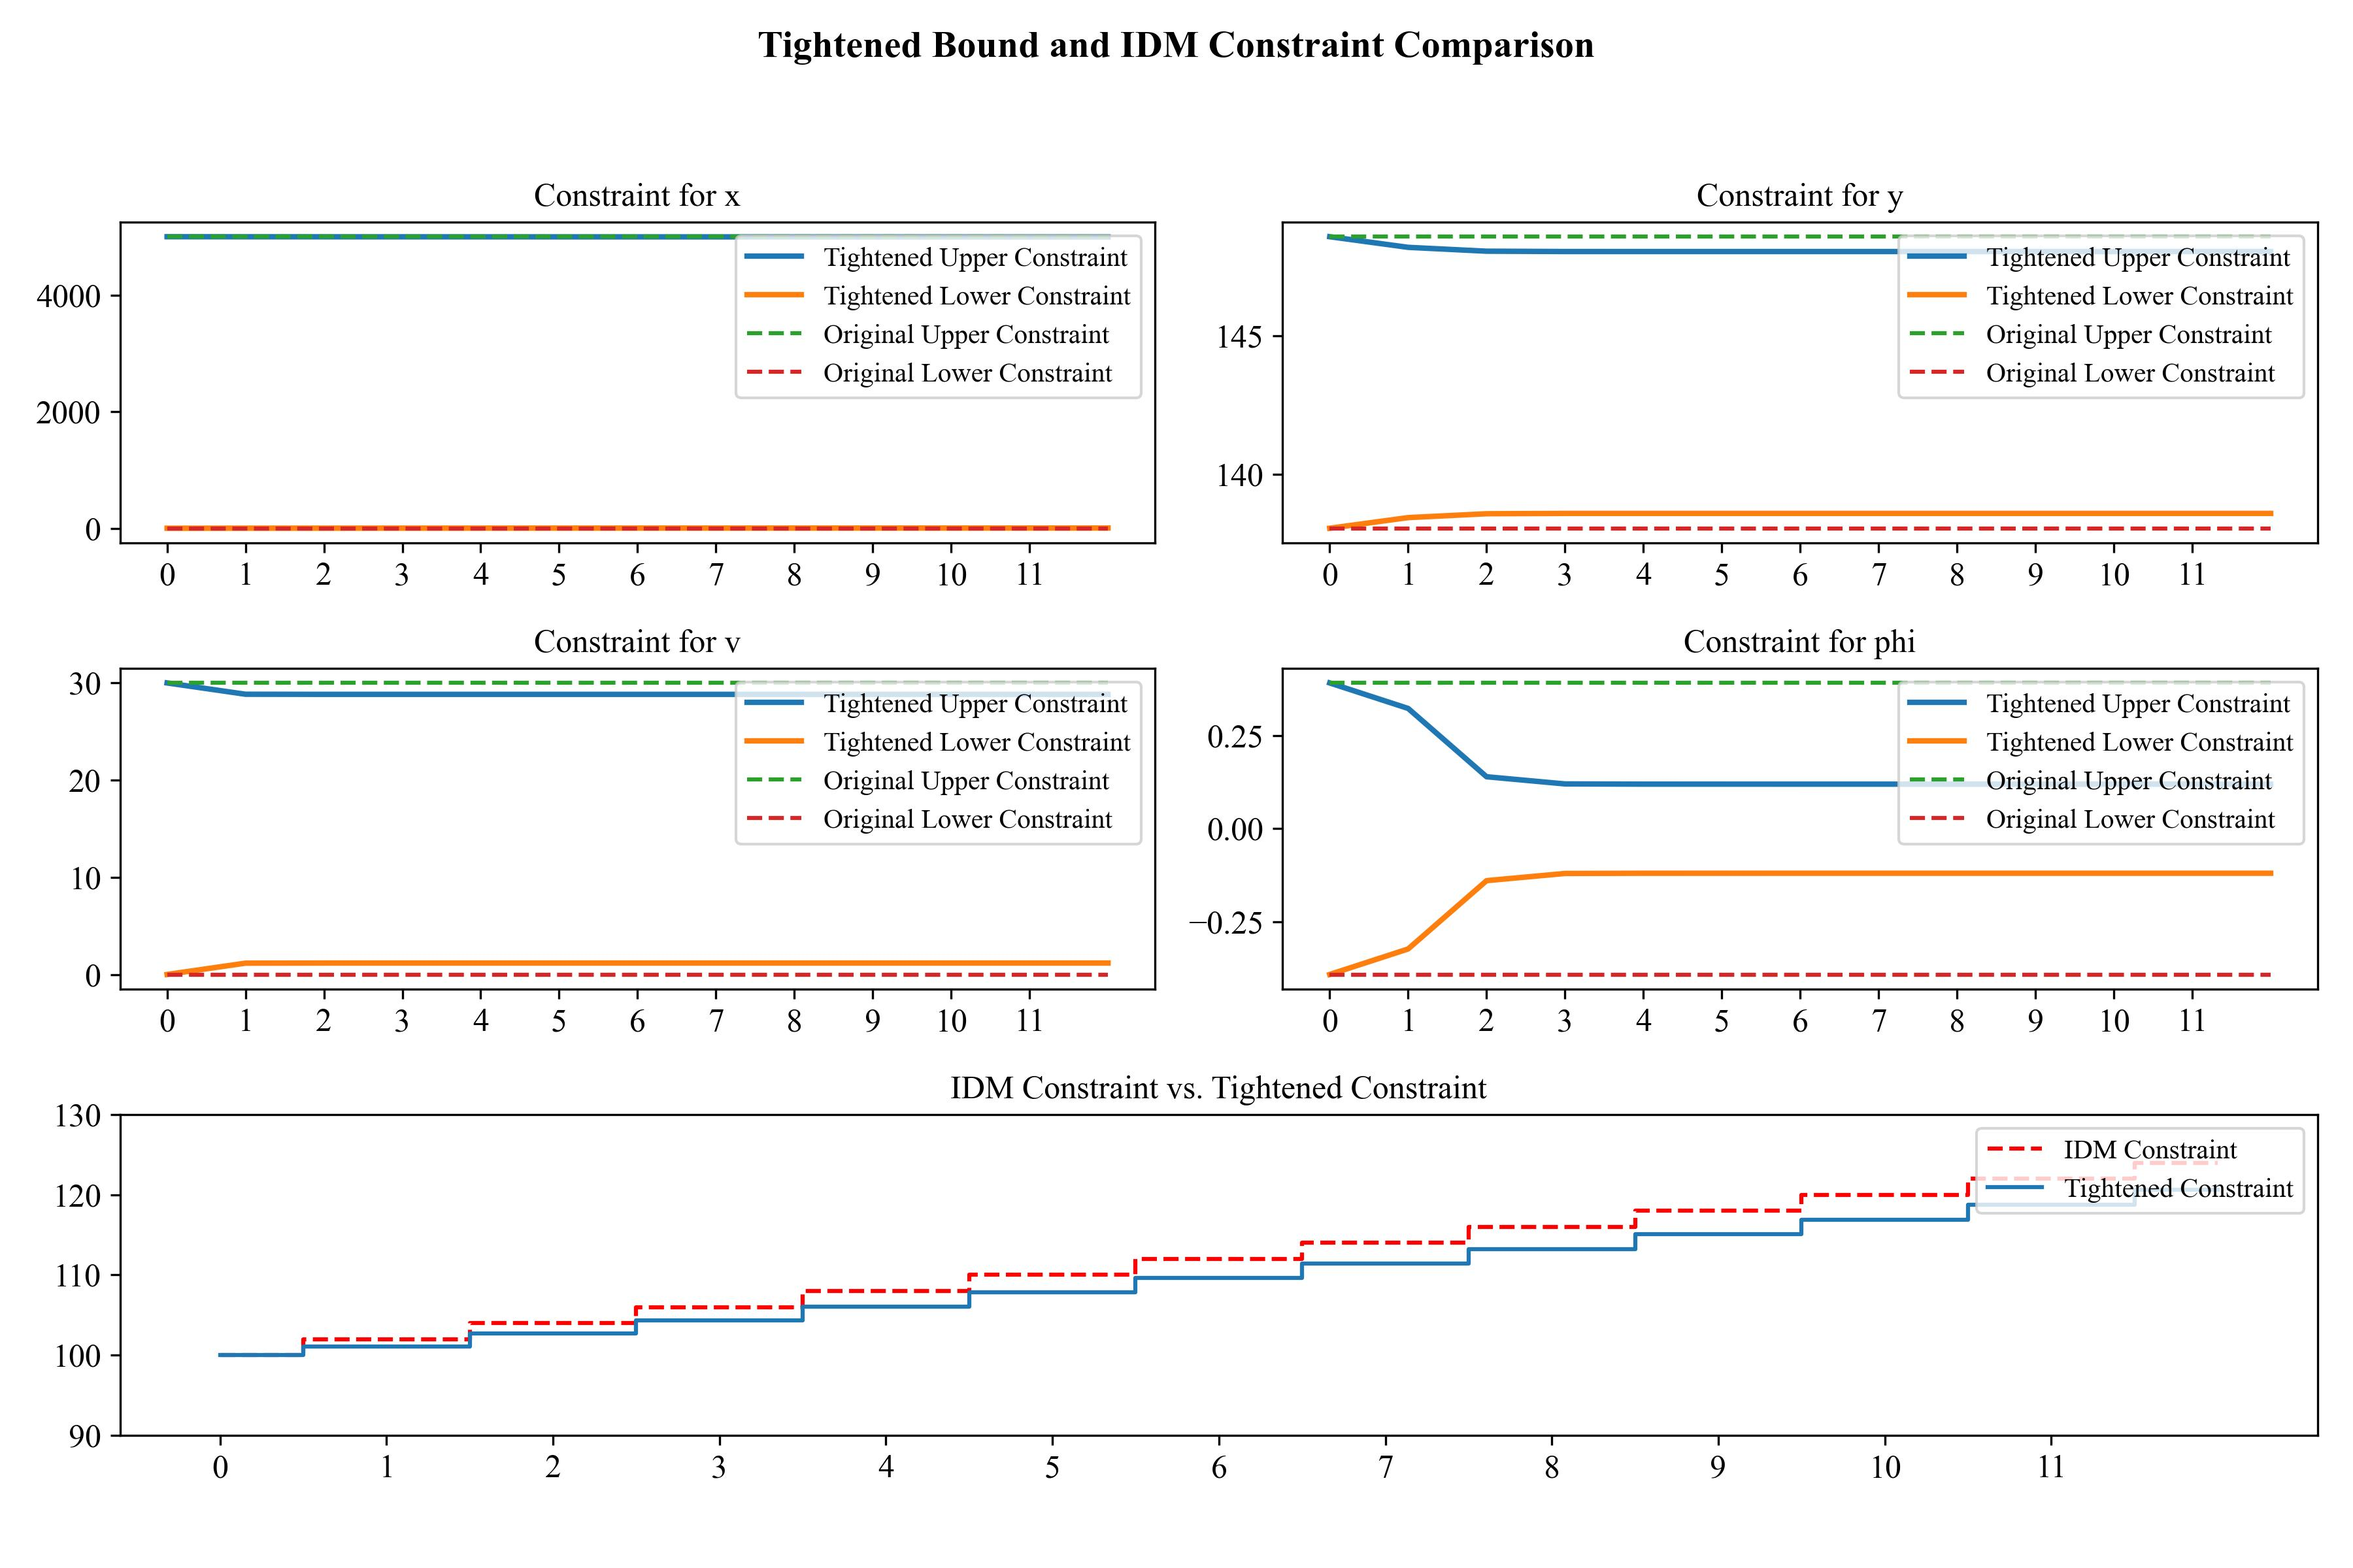
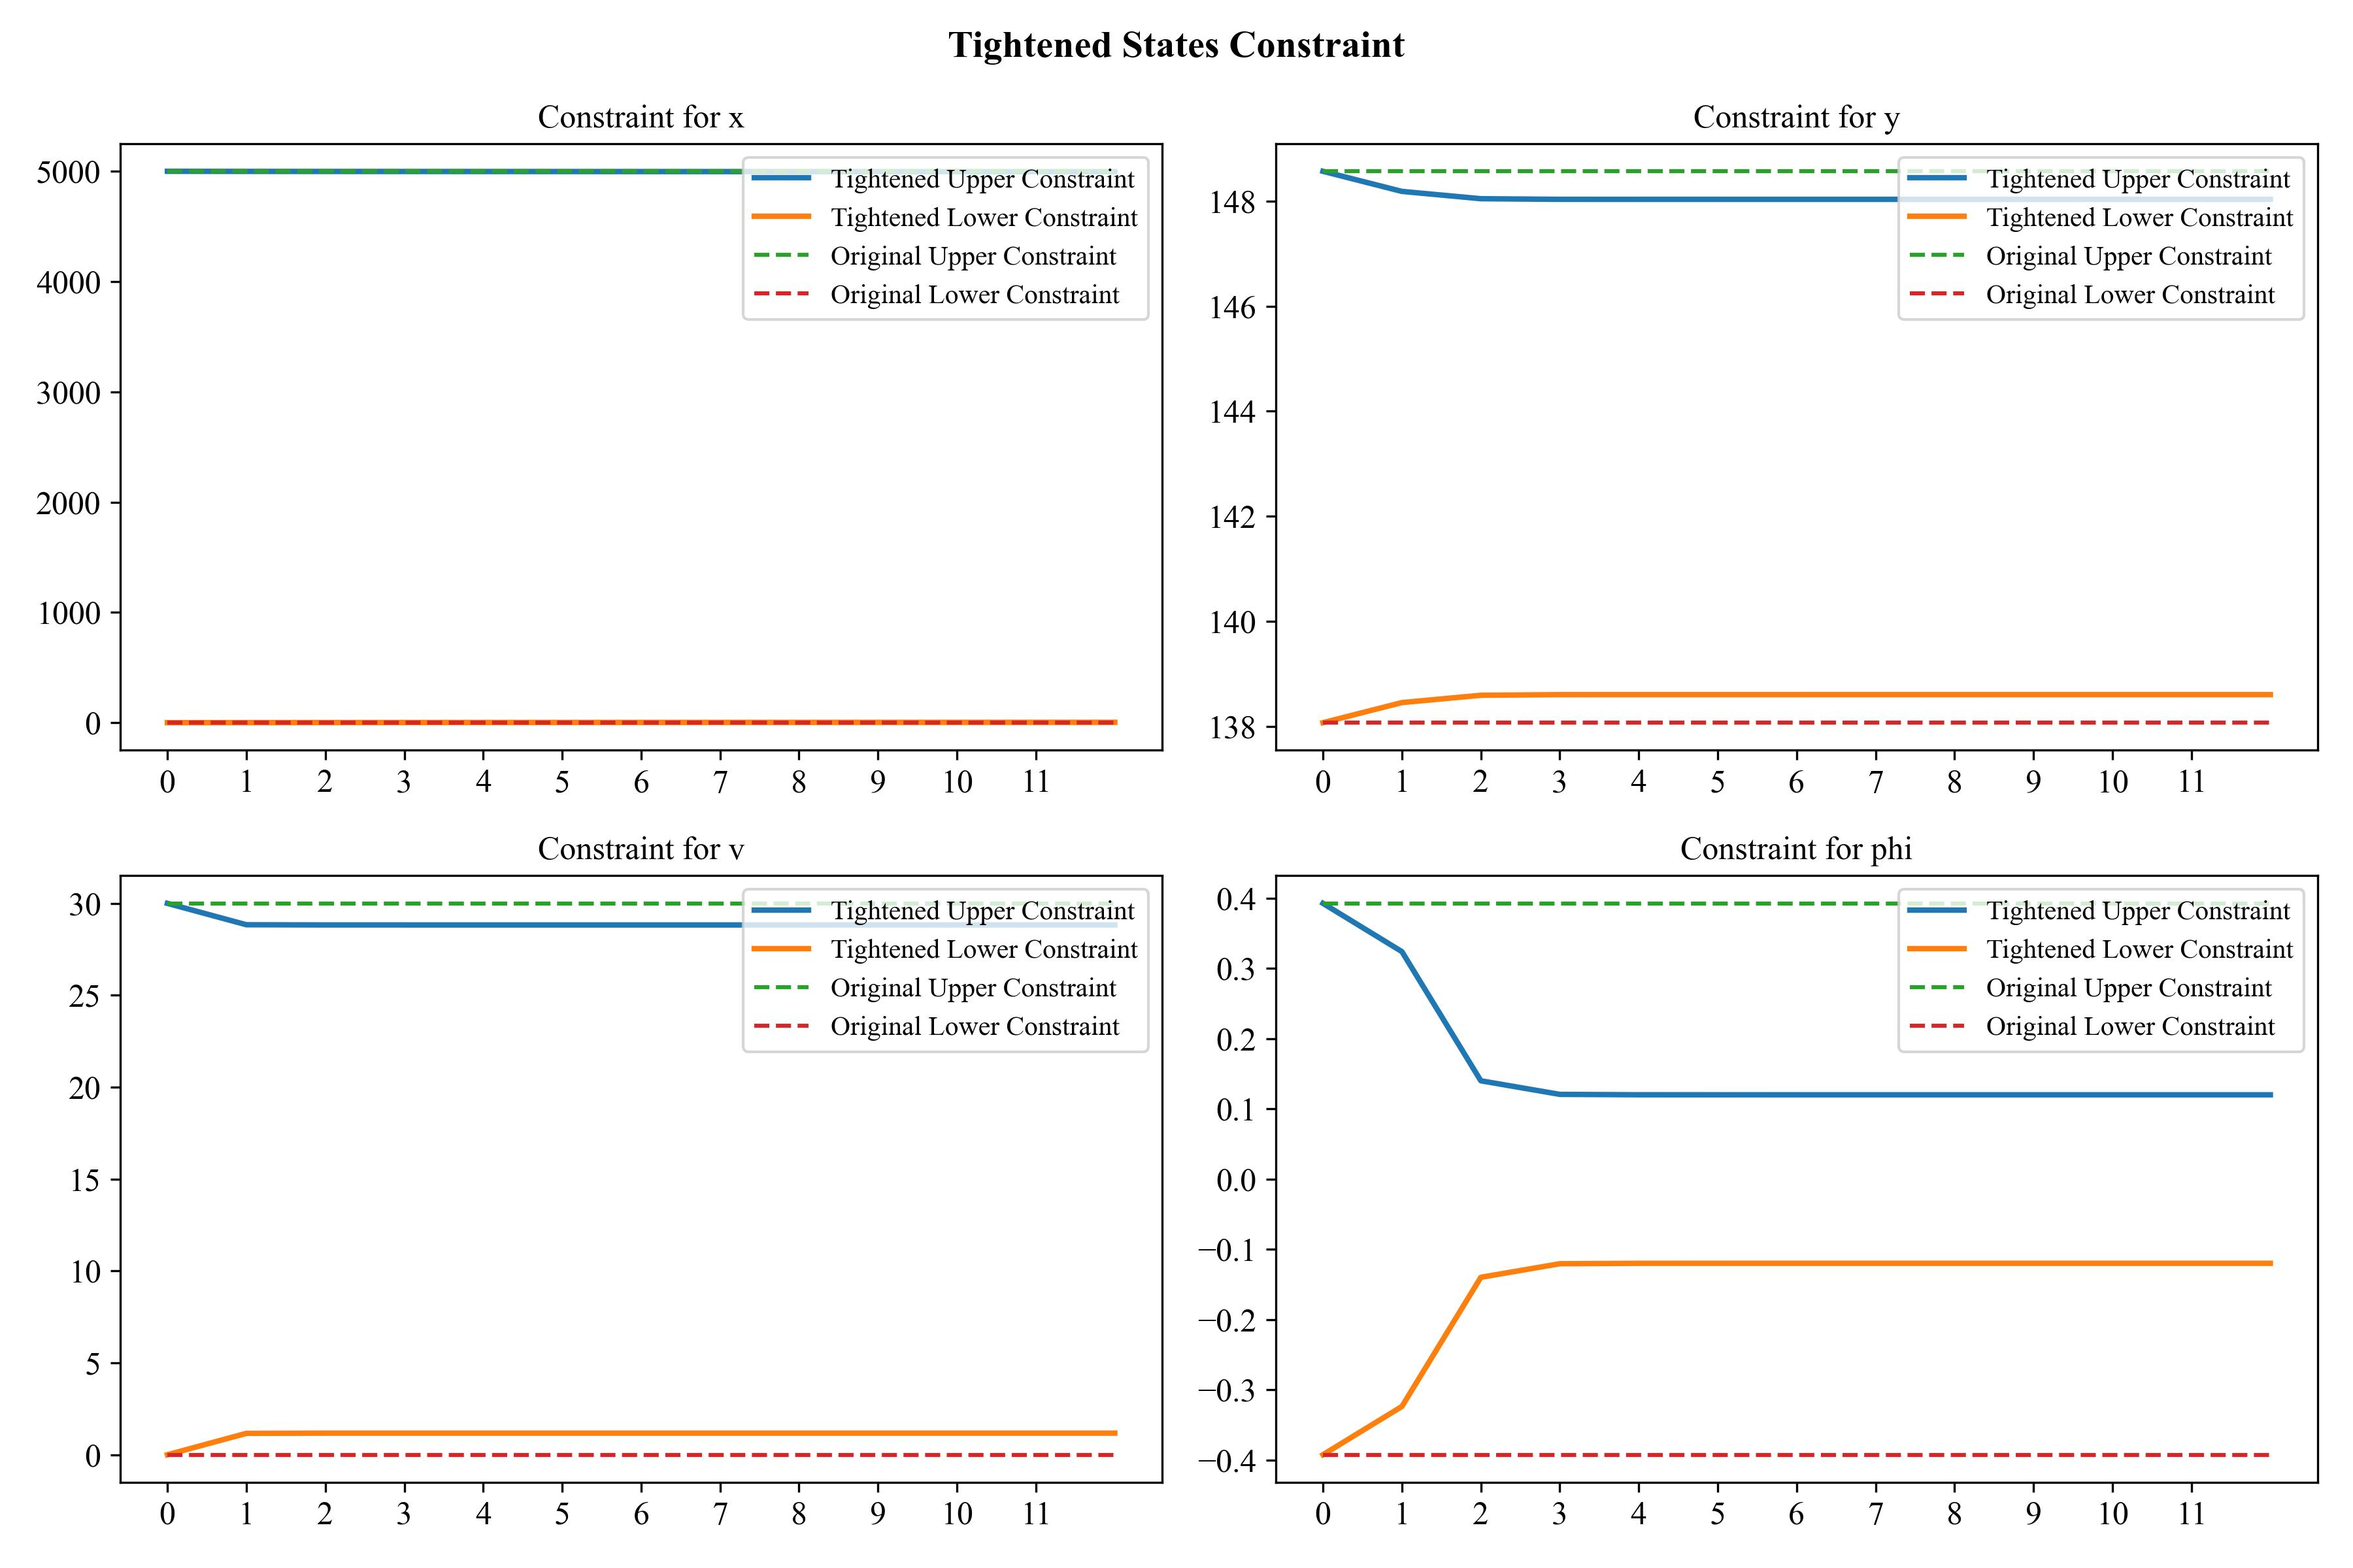
update plot

diff --git a/util/utils.py b/util/utils.py
@@ -987,7 +987,7 @@ def borvePictures(X,X_traffic,X_traffic_ref,paramLog,decisionLog,vehList,X_pred,
             # print("this is the limit",X_limit)
             plt.plot([X[0,i,0]-frameSize,X_limit],[laneBounds[0],laneBounds[0]],'g')
             plt.plot([X[0,i,0]-frameSize,X_limit],[laneBounds[1],laneBounds[1]],'g')
-            plt.plot([X_limit,X_limit],laneBounds,'b')
+            plt.plot([X_limit,X_limit],laneBounds,'g')
         #! plot the ellipse at N = 0,  3 ,6, 9, 12, mean is the point of prediction, 
         for idx, N in enumerate([0,3,6,9,12]):
             if idx == 0: continue
@@ -1016,6 +1016,7 @@ def borvePictures(X,X_traffic,X_traffic_ref,paramLog,decisionLog,vehList,X_pred,
 def plot_tanhConstraint(i, X_traffic, traffic,constraint_laneChange,paramLog,decisionLog,X,vehWidth,d_lat_spread,scenarioTrailADV,frameSize,Nveh,laneWidth,leadLength,color_plt):
     
     ax = plt.gca()
+    roadMin, roadMax, laneCenters,laneWidth = scenarioTrailADV.getRoad()
     
             
 
@@ -1125,11 +1126,19 @@ def plot_tanhConstraint(i, X_traffic, traffic,constraint_laneChange,paramLog,dec
         X_limit = X[0,i,0]+dX_lead-D_safe - X[2,i,0] * t_headway
         
         
-        
+        if color_plt == 'r':
         # print("this is the limit",X_limit)
-        plt.plot([X[0,i,0]-frameSize,X_limit],[laneBounds[0],laneBounds[0]],'g')
-        plt.plot([X[0,i,0]-frameSize,X_limit],[laneBounds[1],laneBounds[1]],'g')
-        plt.plot([X_limit,X_limit],laneBounds,'b')
+            plt.plot([X[0,i,0]-frameSize,X_limit-3],[laneBounds[0],laneBounds[0]],color_plt, alpha = 1,linewidth=2)
+            plt.plot([X[0,i,0]-frameSize,X_limit-3],[laneBounds[1],laneBounds[1]],color_plt, alpha = 1,linewidth=2)
+            plt.plot([X_limit-3,X_limit-3],laneBounds,color_plt, alpha = 1,linewidth=2, label='Tighted constraint')
+        else:
+            plt.plot([X[0,i,0]-frameSize,X_limit],[laneBounds[0],laneBounds[0]],color_plt, alpha = 1,linewidth=2, label='IDM constraint')
+            plt.plot([X[0,i,0]-frameSize,X_limit],[laneBounds[1],laneBounds[1]],color_plt, alpha = 1,linewidth=2)
+            plt.plot([X_limit,X_limit],laneBounds,color_plt, alpha = 1,linewidth=2)
+
+        # plt.plot([X[0,i,0]-frameSize,X_limit],[laneBounds[0],laneBounds[0]],'g')
+        # plt.plot([X[0,i,0]-frameSize,X_limit],[laneBounds[1],laneBounds[1]],'g')
+        # plt.plot([X_limit,X_limit],laneBounds,'g')
         
         
     if color_plt == 'r':
@@ -1139,7 +1148,7 @@ def plot_tanhConstraint(i, X_traffic, traffic,constraint_laneChange,paramLog,dec
                 width, L_tract = 2.59, 8.46
                 L_trail=0
                 ax.add_patch(Rectangle(
-                                xy = (X_traffic[0,i,j]-L_tract/2,X_traffic[1,i,j]-leadWidth/2), width=L_tract, height=width,
+                                xy = (X_traffic[0,i,j]-L_tract/2,X_traffic[1,i,j]-width/2), width=L_tract, height=width,
                                 angle= 180*X_traffic[3,i,j]/np.pi, linewidth=1, edgecolor = 'k',
                                 facecolor="red", fill=True,alpha=0.3))
                 #! legend : Egovehicle

diff --git a/Test_func/test_mpc_bound.py b/Test_func/test_mpc_bound.py
@@ -81,8 +81,9 @@ import numpy as np
 # Font settings for readability
 plt.rcParams.update({'font.size': 12, 'font.family': 'Times New Roman'})
 
-fig, axs = plt.subplots(3, 2, figsize=(12, 8))
-fig.suptitle('Tightened Bound and IDM Constraint Comparison', fontsize=14, fontweight='bold')
+# fig, axs = plt.subplots(3, 2, figsize=(12, 8))
+fig, axs = plt.subplots(2, 2, figsize=(12, 8))
+fig.suptitle('Tightened States Constraint', fontsize=14, fontweight='bold')
 
 # Titles for the first 4 subplots
 titles = ['Constraint for x', 'Constraint for y', 'Constraint for v', 'Constraint for phi']
@@ -96,23 +97,23 @@ for i in range(4):
     axs[row, col].set_title(titles[i], fontsize=12)
     axs[row, col].set_xticks(range(N))
 
-plt.delaxes(axs[2, 0]) 
-plt.delaxes(axs[2, 1]) 
+# plt.delaxes(axs[2, 0]) 
+# plt.delaxes(axs[2, 1]) 
 
-ax_big = fig.add_subplot(3, 1, 3)
-ax_big.set_ylim(90, 130)  # Set y-axis limits to frame the data
+# ax_big = fig.add_subplot(3, 1, 3)
+# ax_big.set_ylim(90, 130)  # Set y-axis limits to frame the data
 
-# Use the 'step' function for a ladder-like appearance
-# 'where' parameter can be 'pre', 'post', or 'mid'. It determines where the step jumps.
-ax_big.step(range(len(IDM_constraint_list)), IDM_constraint_list, where='mid', label='IDM Constraint', linewidth=1.5, linestyle='--',color='r')
+# # Use the 'step' function for a ladder-like appearance
+# # 'where' parameter can be 'pre', 'post', or 'mid'. It determines where the step jumps.
+# ax_big.step(range(len(IDM_constraint_list)), IDM_constraint_list, where='mid', label='IDM Constraint', linewidth=1.5, linestyle='--',color='r')
 
-ax_big.step(range(len(tightened_bound_N_IDM_list)), tightened_bound_N_IDM_list, where='mid', label='Tightened Constraint', linewidth=1.5, linestyle='-')
+# ax_big.step(range(len(tightened_bound_N_IDM_list)), tightened_bound_N_IDM_list, where='mid', label='Tightened Constraint', linewidth=1.5, linestyle='-')
 
-ax_big.legend(loc='upper right', fontsize='small')
-ax_big.set_title('IDM Constraint vs. Tightened Constraint', fontsize=12)
-ax_big.set_xticks(range(N))
+# ax_big.legend(loc='upper right', fontsize='small')
+# ax_big.set_title('IDM Constraint vs. Tightened Constraint', fontsize=12)
+# ax_big.set_xticks(range(N))
 
-plt.tight_layout(rect=[0, 0.03, 1, 0.95])  # Adjust the layout
+plt.tight_layout()  # Adjust the layout
 
 plt.savefig('C:\\Users\\A490243\\Desktop\\Master_Thesis\\Figure\\MPC_tighten_bound.jpg', dpi=300)  # High resolution
 plt.show()

diff --git a/Mid_Term_Test/test_plotConstraint.py b/Mid_Term_Test/test_plotConstraint.py
@@ -65,7 +65,8 @@ vehicleADV.setStochasticMPCParams(P0, Q_0, possibility)
 
 
 
-i=20
+# i=30
+i = 20
 scenarioTrailADV = trailing(vehicleADV,N,lanes = 3,v_legal = ref_vx, laneWidth=laneWidth)
 scenarioTrailADV.slackCost(q_traffic_slack)
 scenarioADV = simpleOvertake(vehicleADV,N,lanes = 3,v_legal = ref_vx,laneWidth=laneWidth)
@@ -114,10 +115,13 @@ plt.plot([0,300], [143.318146-1.75-3.5, 143.318146-1.75-3.5], 'k', lw=1)
 plt.plot([0,300], [143.318146+1.75+3.5, 143.318146+1.75+3.5], 'k', lw=1)
 plt.xlim(120,210)
 plt.ylim(130, 160)
+# plt.xlim(100,250)
+# plt.ylim(130, 160)
 plt.xlabel('X Position')
 plt.ylabel('Y Position')
 plt.tight_layout()
 plt.legend(loc='upper right')
 #! save the figure
+# plt.savefig(r'C:\Users\A490243\Desktop\Master_Thesis\Figure\Tightened_IDM.png')
 plt.savefig(r'C:\Users\A490243\Desktop\Master_Thesis\Figure\Tightened_tanh.png')
 plt.show()

diff --git a/README.md b/README.md
@@ -40,7 +40,7 @@ If you find the details on constraint definitions helpful or if they've sparked 
 **SMPC Constraint Tightening:**  
 To address these issues, we employ Stochastic MPC (SMPC) techniques to tighten state constraints, especially for trailing and lane changing maneuvers.  
 ![MPC Constraint Tightening](Figure/MPC_tighten_bound.jpg)
-
+![MPC Constraint Tightening_ACC](Figure/Tightened_IDM.png)
 ![MPC Constraint Tightening_OverTaking](Figure/Tightened_tanh.png)
 
 
